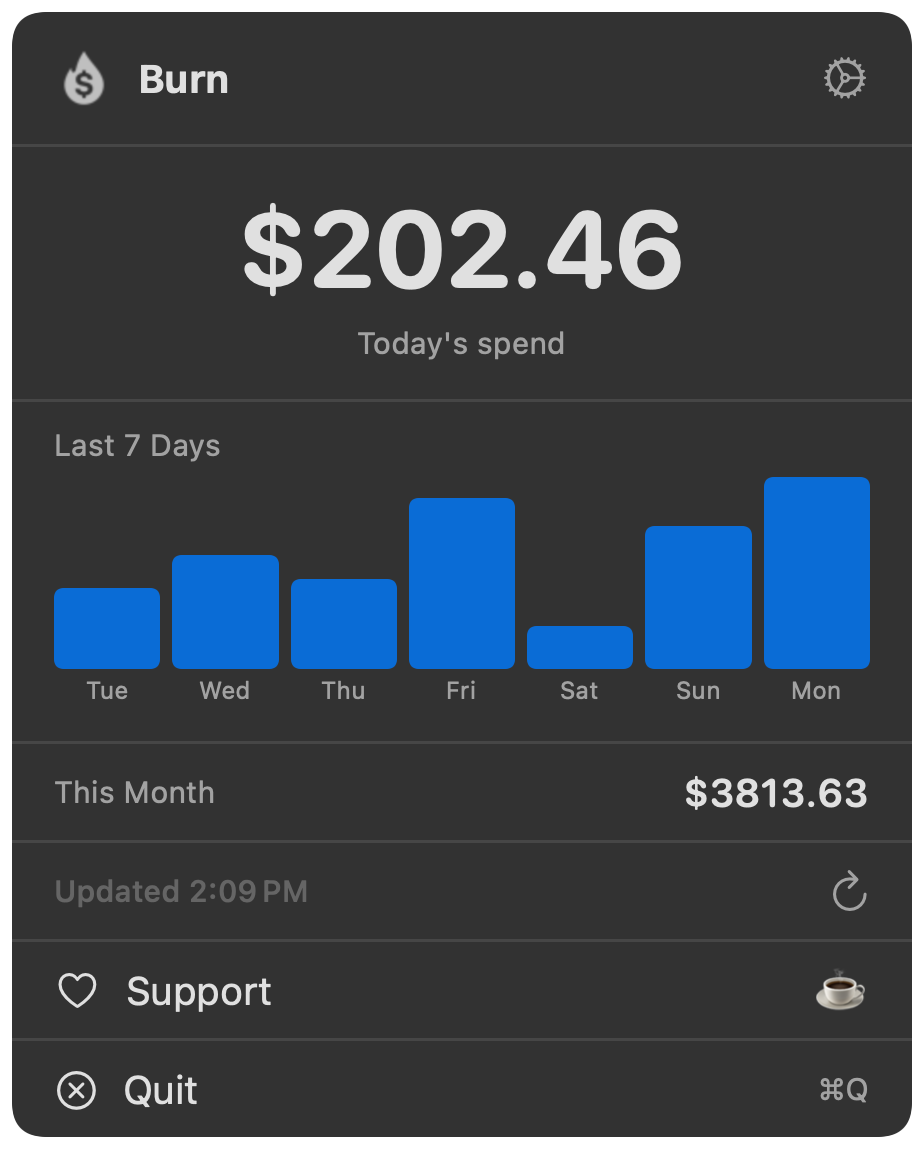
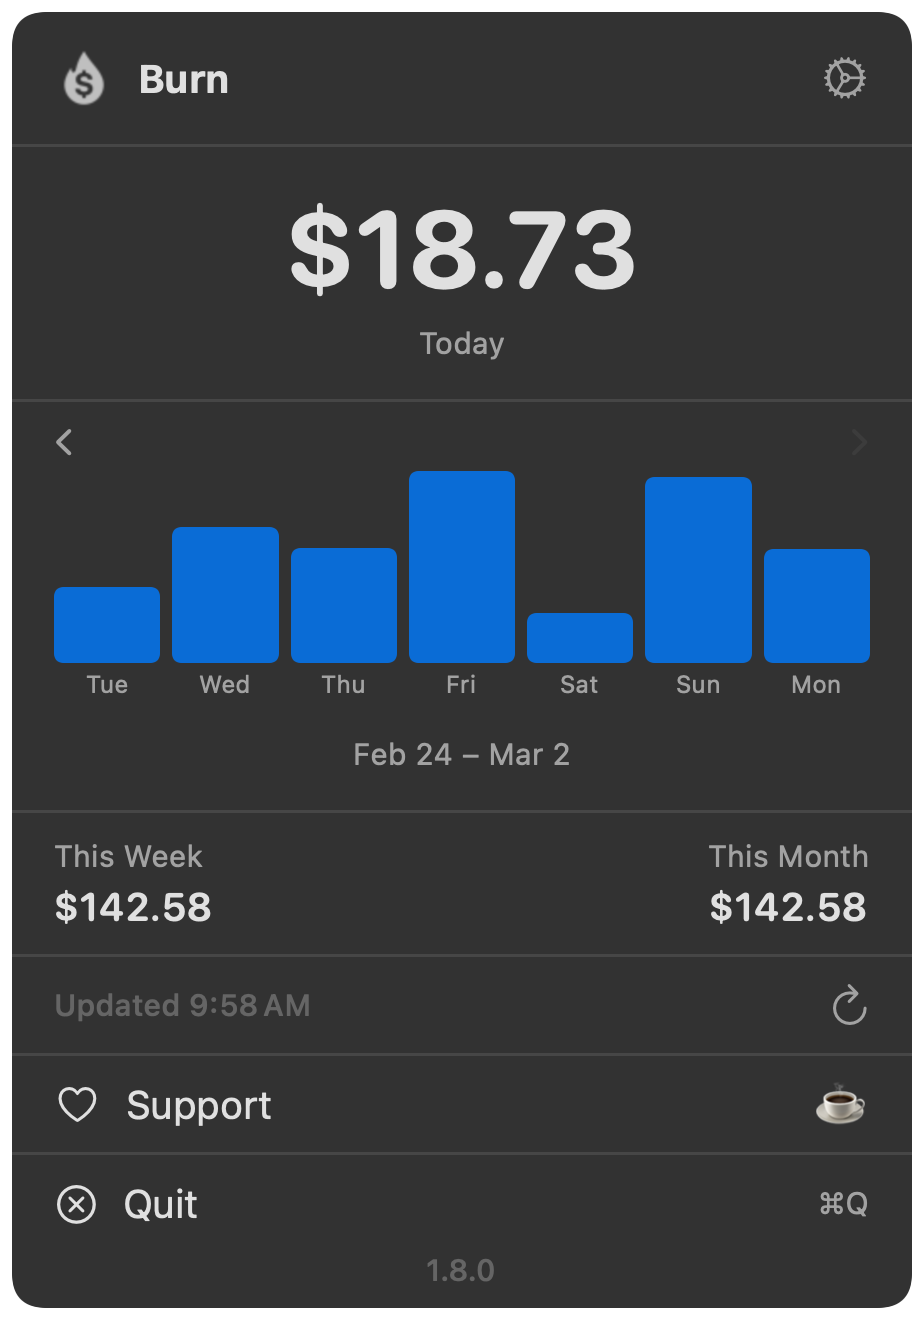
Use smaller mock amounts in repo screenshot

diff --git a/Burn/ScreenshotGenerator.swift b/Burn/ScreenshotGenerator.swift
@@ -7,9 +7,9 @@ enum ScreenshotGenerator {
         let service = UsageService(settings: settings)
 
         service.usageData = UsageData(
-            todayCost: 202.46,
+            todayCost: 18.73,
             last7Days: mockDays(),
-            monthTotal: 3813.63,
+            monthTotal: 142.58,
             isCurrentWeek: true,
             weekStart: Calendar.current.date(byAdding: .day, value: -6, to: Date())!,
             weekEnd: Date(),
@@ -48,7 +48,7 @@ enum ScreenshotGenerator {
     private static func mockDays() -> [DailyUsage] {
         let calendar = Calendar.current
         let today = Date()
-        let costs: [Double] = [85.20, 120.50, 95.30, 180.75, 45.60, 150.90, 202.46]
+        let costs: [Double] = [12.40, 22.30, 18.90, 31.50, 8.20, 30.55, 18.73]
 
         return (0..<7).map { i in
             let date = calendar.date(byAdding: .day, value: -(6 - i), to: today)!
